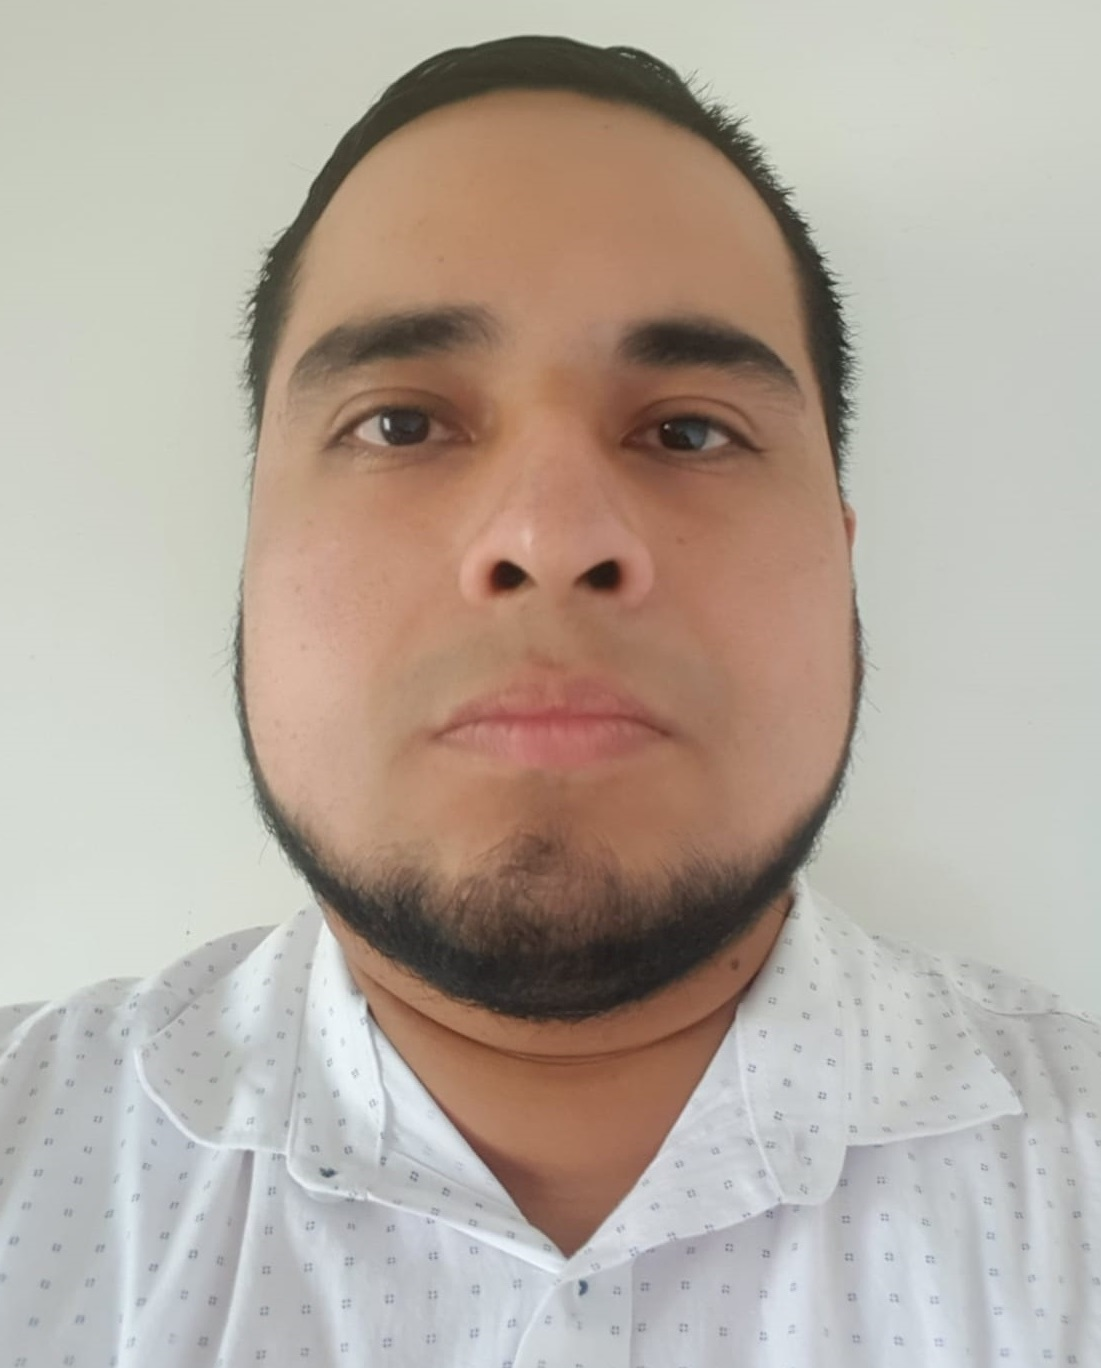
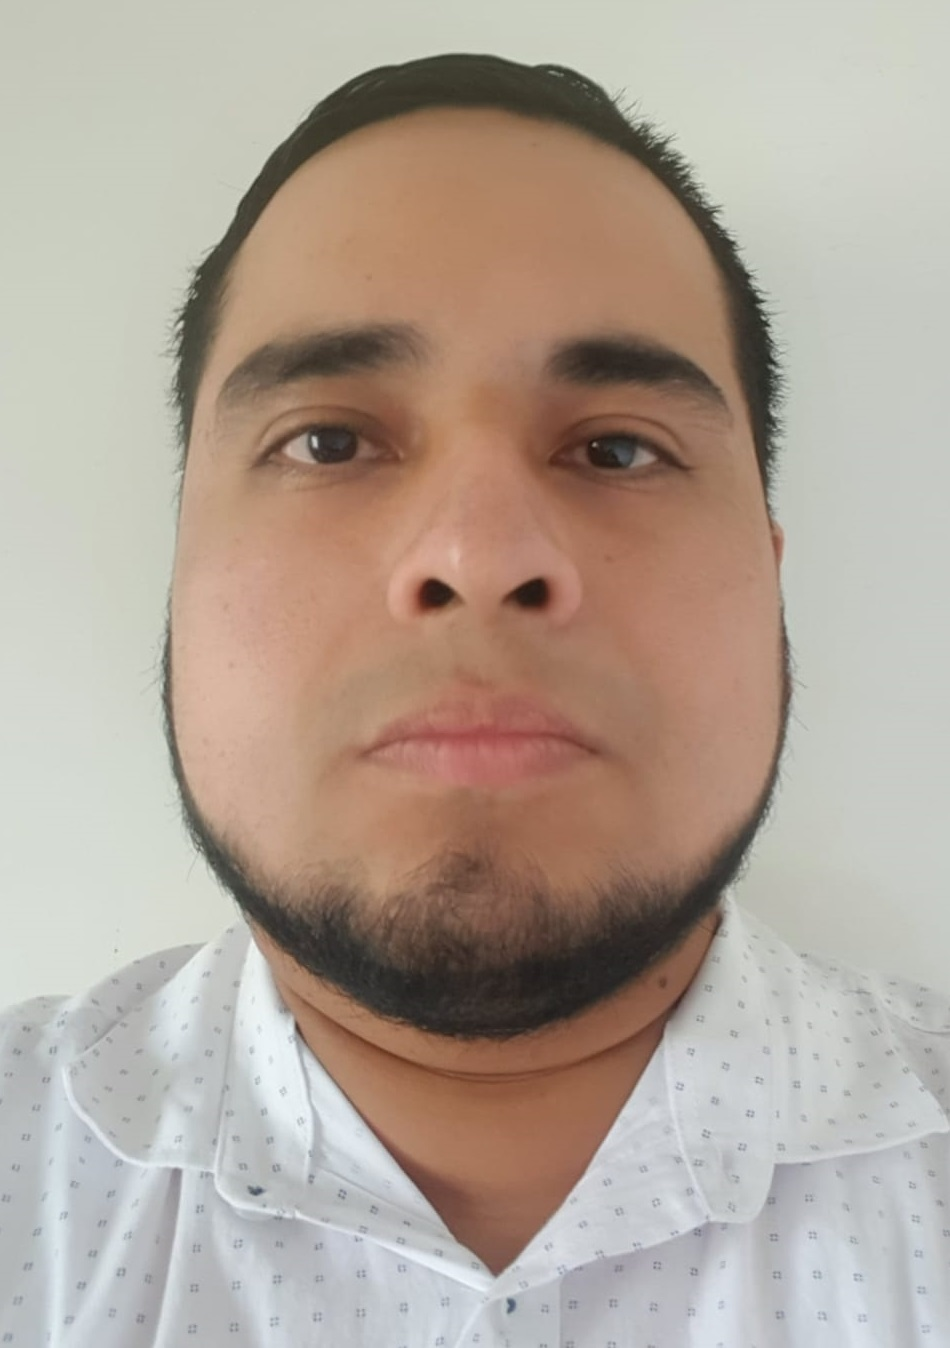
Modificaciones en el contenido como en las dimensiones de la imagen

diff --git a/css/estilo.css b/css/estilo.css
@@ -88,7 +88,7 @@ h2 {
 }
 
 .contenedor-flexible__item-contenido img {
-    width: 210px;
+    width: 180px;
     height: 220px;
     border-radius: 50%;
 }
